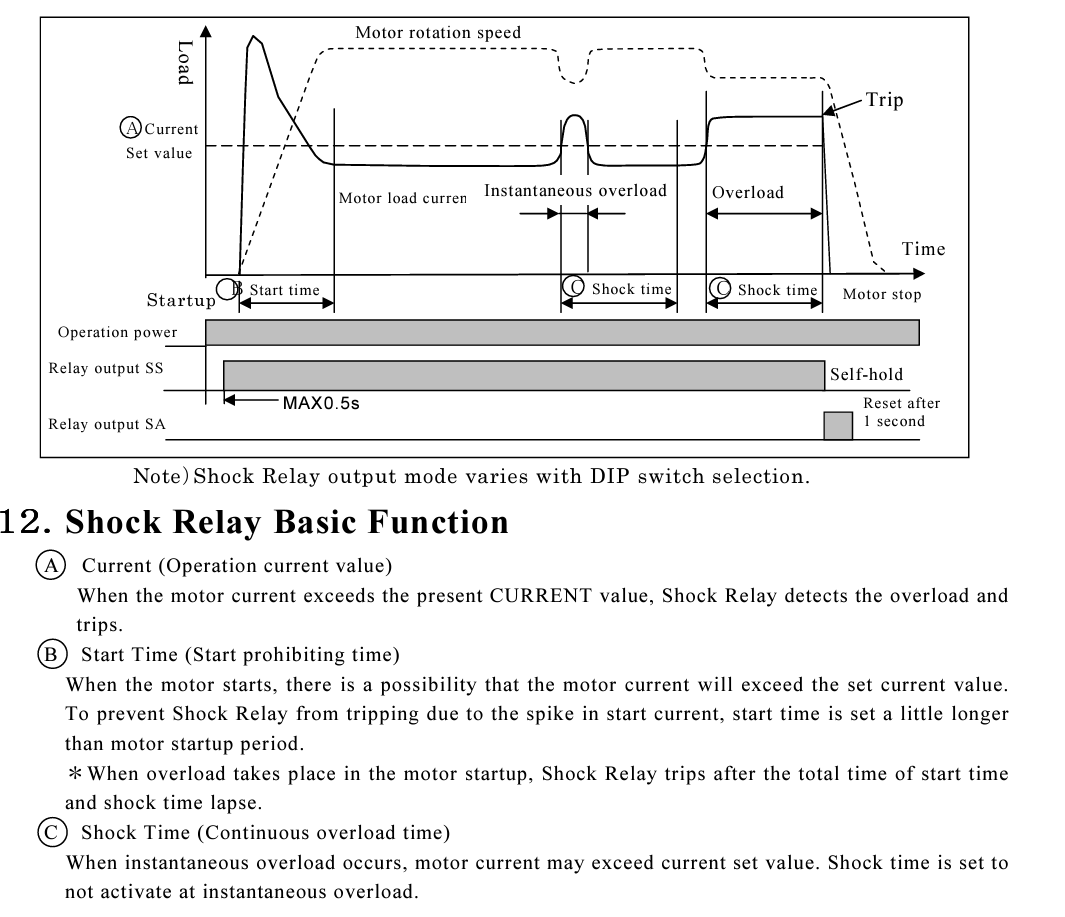
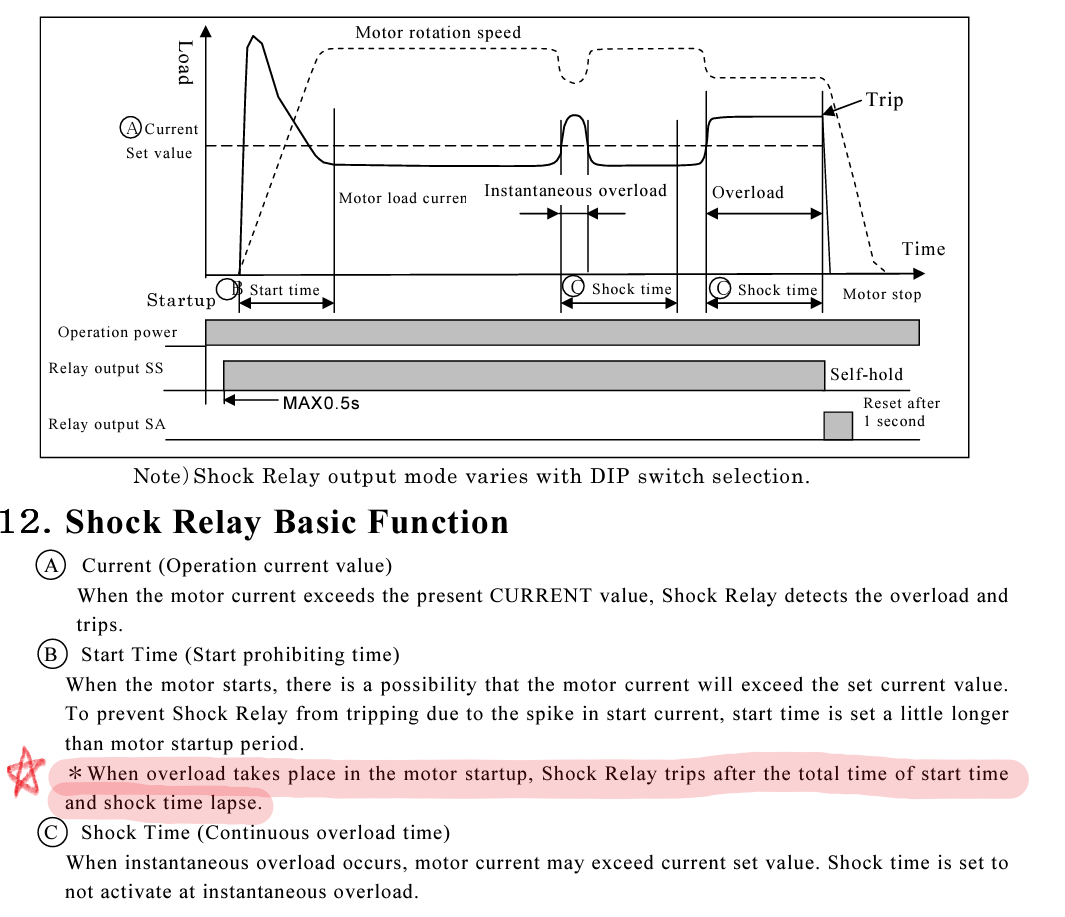
更新 HTML 及 PDF 文件

Changed region(s): [[0.0, 0.7939, 0.9606, 0.916]]

diff --git a/4CDQ_MCC_EOCR.html b/4CDQ_MCC_EOCR.html
@@ -6,6 +6,7 @@
     <title>4CDQ_MCC_EOCR設定與跳脫時間曲線</title>
     <link rel="stylesheet" href="styles.css">
     <link rel="stylesheet" href="scrollbar-styles.css">
+    <link rel="stylesheet" href="picreadme.css">
     <style>
         body {
             margin: 0;
@@ -28,9 +29,19 @@
 <body>
     <div class="container">
         <h1>4CDQ_MCC_EOCR</h1>
-        <img src="pic/tsubaki EOCR(中文翻譯).png" alt="EOCR(中文翻譯)">
-        <img src="pic/tsubaki EOCR 跳脫曲線.png" alt="EOCR 跳脫曲線">
-        <img src="pic/tsubaki EOCR(設定教學).png" alt="EOCR(設定教學)">
+        <figure>
+            <img src="pic/tsubaki EOCR(中文翻譯).png" alt="EOCR(中文翻譯)">
+            <figcaption>TSUBAKI EOCR 的GOOGLE中文翻譯說明</figcaption>
+        </figure>
+        <figure>
+            <img src="pic/tsubaki EOCR 跳脫曲線.png" alt="EOCR 跳脫曲線">
+            <figcaption>上圖中的紅色重點，總跳脫時間為啟動時間(start time)+過電流延時時間(shock time)</figcaption>
+        </figure>
+        <figure>
+            <img src="pic/tsubaki EOCR(設定教學).png" alt="EOCR(設定教學)">
+            <figcaption>參照馬達銘牌數值，依照13.1先設定三個旋鈕，然後依序13.2~13.3~13.4設定EOCR</figcaption>
+        </figure>
+        
     </div>
 </body>
 </html>

diff --git a/index.html b/index.html
@@ -41,6 +41,7 @@
                 <li><a href="MCC.html" target="contentFrame">MCC位置查詢</a></li>
                 <li><a href="isolator.html" target="contentFrame">Isolator</a></li>
                 <li><a href="S5TIME.html" target="contentFrame">PLC S5TIME格式</a></li>
+                <li><a href="4CDQ_MCC_EOCR.html" target="contentFrame">4CDQ_EOCR</a></li>
             </ul>
             <h2 class="collapsible">回首頁</h2>
             <ul class="collapsible-content">

diff --git a/picreadme.css b/picreadme.css
@@ -1,0 +1,17 @@
+figure {
+    margin: 20px auto;
+    text-align: center;
+}
+
+figcaption {
+    font-size: 14px;
+    color: #666;
+    margin-top: 8px;
+}
+
+p {
+    font-size: 14px;
+    color: #666;
+    text-align: center;
+    margin-top: 8px;
+}
